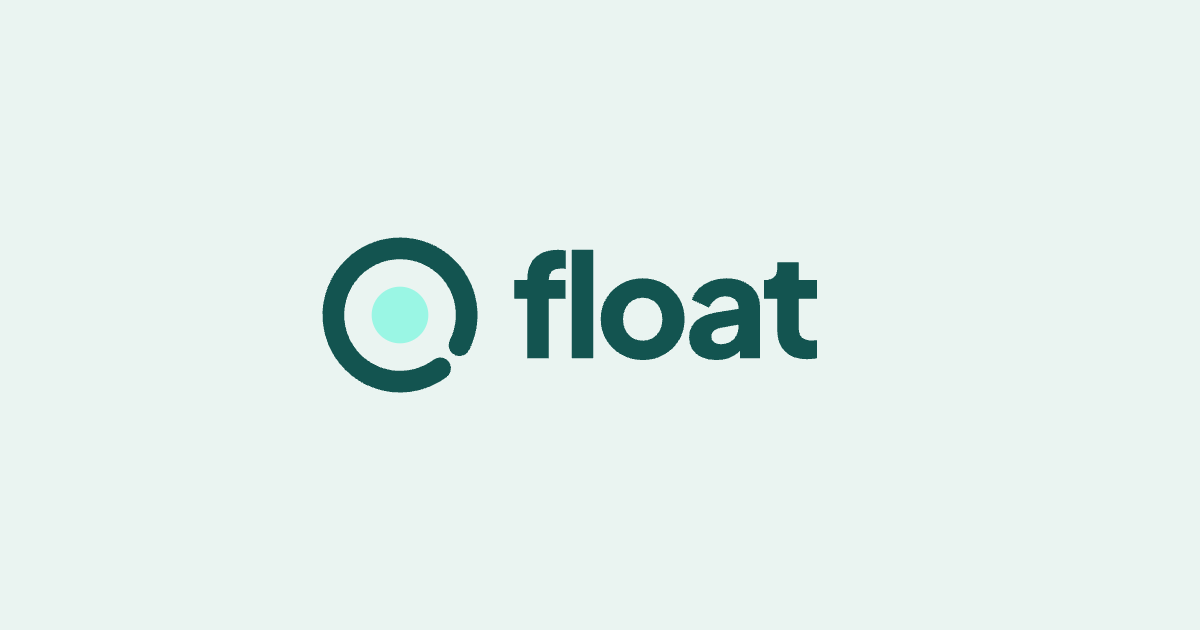
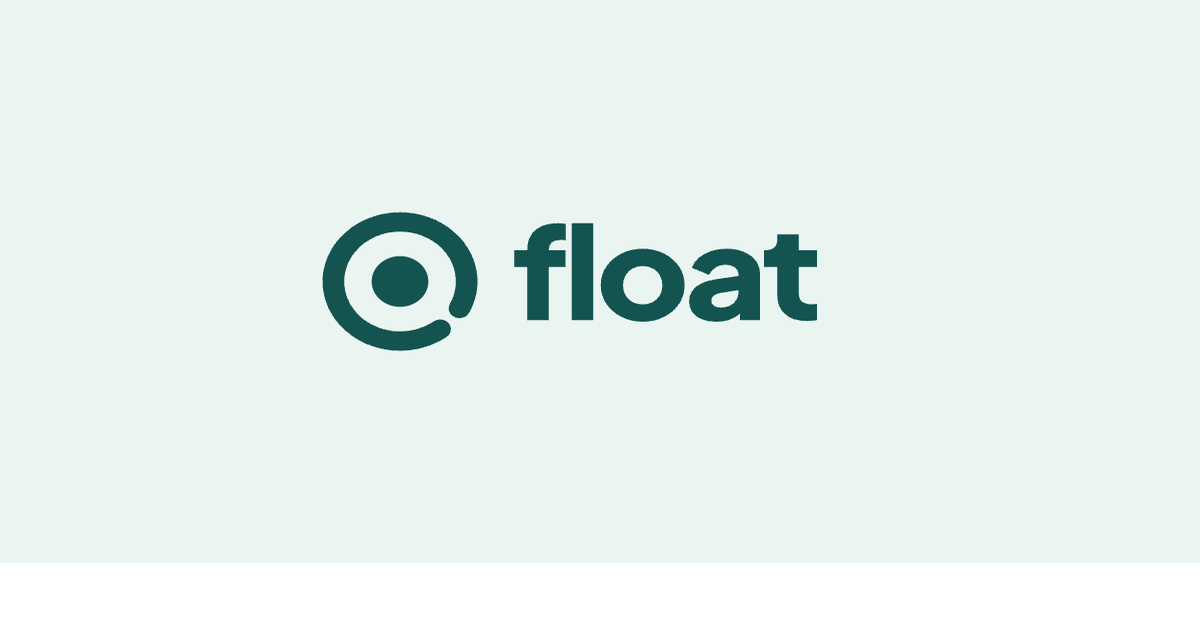
Fix mint-on-light contrast across the app
Mint (#9af6e4) on white is 1.26:1 — effectively invisible. Brand kit v2 moves
the logo dot to teal on light surfaces; this applies the same principle to the
UI (mint stays the accent on dark, where it's 9.55:1 on ink).

- FloatLogo: light-surface dot → teal (one line; inherited by the practitioner
  nav and all 12 auth pages)
- PatientPage: the "Belief in Prediction" chart's "Before" series was a mint line
  on a white card (invisible, and my earlier brand sweep had made it worse) —
  now #3f817b dashed, distinct from the teal "After" line
- PatientPage: message-type pill mint border given a mint-soft fill so it reads
- TeenHomePage: white-card date dot → teal
- Assets: add float-mark-light / float-logo-lockup-light (kit v2); regenerate
  og-image.png, which baked the mint-dot lockup onto pale mint (0 mint px now)

Changed region(s): [[0.4317, 0.3317, 0.6783, 0.573], [0.2467, 0.3317, 0.4008, 0.6333]]

diff --git a/apps/web/src/pages/practitioner/PatientPage.tsx b/apps/web/src/pages/practitioner/PatientPage.tsx
@@ -3513,7 +3513,7 @@ export default function PatientPage() {
                 <YAxis domain={[0, 100]} tick={{ fontSize: 11, fill: '#94a3b8' }} axisLine={false} tickLine={false} tickFormatter={v => `${v}%`} />
                 <Tooltip formatter={(value, name) => [`${value}%`, name === 'bip_before' ? 'Before' : 'After']} contentStyle={{ border: '1px solid #e2e8f0', borderRadius: '8px', fontSize: '12px' }} />
                 <Legend formatter={(value) => value === 'bip_before' ? 'Before' : 'After'} wrapperStyle={{ fontSize: '12px' }} />
-                <Line type="monotone" dataKey="bip_before" stroke="#9af6e4" strokeWidth={2} dot={{ r: 3, fill: '#9af6e4' }} strokeDasharray="4 4" />
+                <Line type="monotone" dataKey="bip_before" stroke="#3f817b" strokeWidth={2} dot={{ r: 3, fill: '#3f817b' }} strokeDasharray="4 4" />
                 <Line type="monotone" dataKey="bip_after" stroke="#135450" strokeWidth={2} dot={{ r: 3, fill: '#135450' }} />
               </LineChart>
             </ResponsiveContainer>
@@ -3728,7 +3728,7 @@ export default function PatientPage() {
           return (
             <div key={m.id} style={{ display: 'flex', flexDirection: 'column', alignItems: 'flex-start', marginTop }}>
               {showTypePill && (
-                <span style={{ display: 'inline-block', fontSize: '11px', color: '#135450', border: '1px solid #9af6e4', background: 'transparent', padding: '2px 8px', borderRadius: '999px', marginBottom: '4px', textTransform: 'capitalize' }}>
+                <span style={{ display: 'inline-block', fontSize: '11px', color: '#135450', border: '1px solid #9af6e4', background: '#eafaf6', padding: '2px 8px', borderRadius: '999px', marginBottom: '4px', textTransform: 'capitalize' }}>
                   {m.message_type.replace(/_/g, ' ')}
                 </span>
               )}

diff --git a/apps/web/src/components/ui/FloatLogo.tsx b/apps/web/src/components/ui/FloatLogo.tsx
@@ -37,8 +37,10 @@ function Mark({ arc, dot }: { arc: string; dot: string }) {
 
 export default function FloatLogo({ size = 'md', reverse = false }: FloatLogoProps) {
   const height = SIZES[size].height
+  // On light surfaces the dot is teal, not mint: mint on white is 1.26:1 and
+  // effectively invisible. Mint stays the accent on dark (9.55:1 on ink).
   const arc = reverse ? '#9af6e4' : 'var(--float-primary)'
-  const dot = reverse ? '#ffffff' : '#9af6e4'
+  const dot = reverse ? '#ffffff' : 'var(--float-primary)'
   const word = reverse ? '#ffffff' : 'var(--float-primary)'
 
   // sm: mark only

diff --git a/apps/web/src/pages/teen/TeenHomePage.tsx b/apps/web/src/pages/teen/TeenHomePage.tsx
@@ -406,7 +406,9 @@ export default function TeenHomePage() {
                         width: 7,
                         height: 7,
                         borderRadius: '50%',
-                        background: teen.color.mint,
+                        // Teal, not mint: this dot sits on the white hero card,
+                        // where mint is 1.26:1 and reads as nothing.
+                        background: teen.color.tealMid,
                       }}
                     />
                     {heroMeta}

diff --git a/float_brand_rollout_plan.md b/float_brand_rollout_plan.md
@@ -146,6 +146,39 @@ Prerequisite for 3 and 4: outline the lockup wordmark (§2.2).
 
 ---
 
+## 6b. PENDING — mint-on-light fix (kit v2, 2026-07-24)
+
+Brand kit v2 adds **`float-mark-light.svg`** and **`float-logo-lockup-light.svg`**: the dot
+is `#135450` instead of mint, for use on light backgrounds. Mint on white measures
+**1.26:1** — effectively invisible; the teal dot is **8.71:1**.
+
+Everything else in the kit is byte-identical to v1, and note `-light` is byte-identical to
+`-mono` (same artwork, two names).
+
+**Done so far:** `Float-website/index.html` nav logo only (manual deploy, not yet live).
+
+**To roll the fix across the application:**
+
+| # | Change | Notes |
+|---|---|---|
+| 1 | **`FloatLogo.tsx`** — `const dot = reverse ? '#ffffff' : '#9af6e4'` → light case uses `var(--float-primary)` | **Highest value: one line, 12 files inherit it** (practitioner nav + all auth pages, all light surfaces) |
+| 2 | `public/brand/` — add `float-mark-light.svg`, `float-logo-lockup-light.svg` | Consider making the light variant the *default* served asset; most usage is on light |
+| 3 | **`og-image.png` must be regenerated** | It renders the mint-dot lockup on `#eafaf6` — same low contrast, and it's the social preview card. Rebuild via the Playwright + Pillow raster pipeline |
+| 4 | `favicon.svg` (app) and the website's inline data-URI favicon | Dot sits on the browser-tab background, usually light. **Kit v2 left these mint** — user's call, flagged not changed |
+| 5 | No change needed | `apple-touch-icon`, `icon-192/512`, `icon-maskable`, `email-logo` — all put the mark on a teal tile with a **white** dot |
+
+**Wider audit (beyond the logo).** The same principle applies to non-logo UI. The rule:
+**mint is an accent for dark surfaces, or a fill with dark text on top — never a foreground
+element on white.** Instances to check:
+- Teen home card's ~7px mint status dot on a white card — same problem as the logo dot.
+- `.teen-chip--mint` mint 1px border on mint-soft fill — faint, low stakes.
+- `--float-primary-mid` (`#9af6e4`) used as a border on light fills, e.g. the
+  ParentPlanPanel "Sort by distress" button.
+- Fine as-is: `teen-pill--manageable` (mint fill, ink text ≈ 11:1) and every mint usage on
+  the ink/dark surfaces (`moment`, scoreboard, effort card).
+
+---
+
 ## 7. Decisions needed
 
 1. **Colour** — logo-only swap (accept two teals), full re-tone to `#135450` product-wide, or
